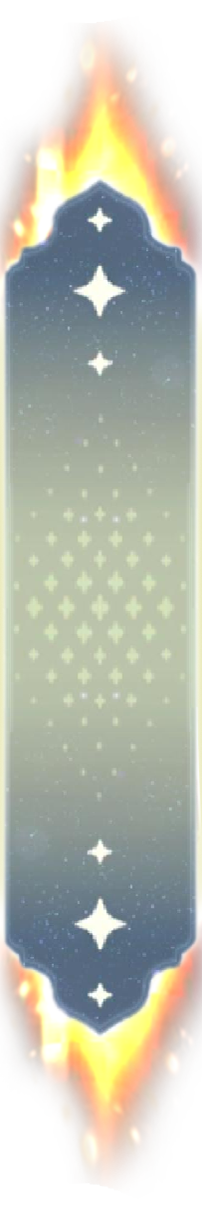
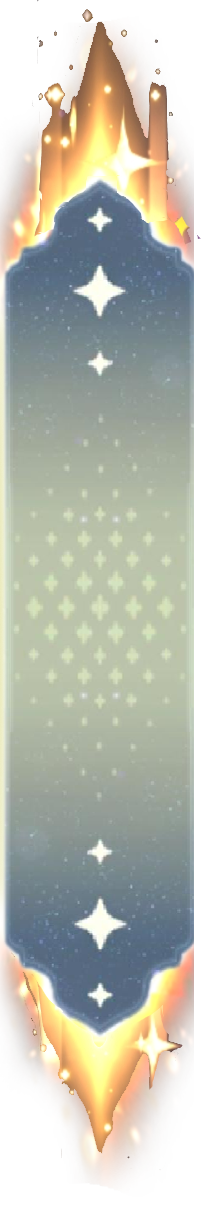
添加帮助页面文本；添加雾切图片；使五星背景图更突出;

diff --git a/src/plugins/gacha/gacha.js b/src/plugins/gacha/gacha.js
@@ -78,11 +78,10 @@ const getStar = async ( userID, choice ) => {
 
 const gachaOnce = async ( userID, choice, table ) => {
     const star  = await getStar(userID, choice);
-    let up    = await getIsUp(userID, star);
-    let result;
+    let up = await getIsUp(userID, star), result;
     const times = five;
-    let {path} = await get('gacha', 'user', { userID });
-    if (star === 5 && choice === 301 && path['fate'] === 2){
+    let { path } = await get('gacha', 'user', { userID });
+    if (star === 5 && choice === 302 && path['course']!== null && path['fate'] === 2){
         result = table['upFiveStar'][path['course']];
         path['fate'] = 0;
         up = 1;
@@ -96,14 +95,14 @@ const gachaOnce = async ( userID, choice, table ) => {
             if (up) {
               const index = getRandomInt(table['upFiveStar'].length) - 1;
               result = table['upFiveStar'][index];
-              if (choice === 301)
+              if (choice === 302 && path['course']!== null)
                   path['fate'] = (index === path['course'])? 0 : path['fate']+1;
             } else {
               const index = getRandomInt(table['nonUpFiveStar'].length) - 1;
               result = table['nonUpFiveStar'][index];
-              if (choice === 301) path['fate']++;
+              if (choice === 302 && path['course']!== null) path['fate']++;
             }
-            if (choice === 301) await update('gacha', 'user', { userID }, { path });
+            if (choice === 302 && path['course']!== null) await update('gacha', 'user', { userID }, { path });
         return { ...result, star: 5, times };
     } else if (star === 4) {
         if (up) {

diff --git a/src/plugins/gacha/index.js b/src/plugins/gacha/index.js
@@ -52,12 +52,20 @@ module.exports = async Message => {
         }
         const table = await get('gacha', 'data', { gacha_type: 302 });
         const {path} = await get('gacha', 'user', { userID });
-        
-        await bot.sendMessage(sendID, '当前定轨 '+table['upFiveStar'][path['course']]['item_name']+'\n命定值 '+path.fate, type);
+        if (path['course'] === null)
+          await bot.sendMessage(sendID, '当前未指定定轨武器', type);
+        else
+          await bot.sendMessage(sendID, '当前定轨 '+table['upFiveStar'][path['course']]['item_name']+'\n命定值 '+path['fate'], type);
     } else if (msg.includes('定轨')) {
         const { choice } = await get('gacha', 'user', { userID });
         if (choice!==302){
           await bot.sendMessage(sendID, '当前卡池非武器池', type);
+          return;
+        }
+        if (cmd === "无") {
+          let path = { course:null, fate: 0};
+          await update('gacha', 'user', { userID }, { path });
+          await bot.sendMessage(sendID, '已取消定轨', type);
           return;
         }
         let id = -1;

diff --git a/src/plugins/tools/help.js b/src/plugins/tools/help.js
@@ -10,6 +10,8 @@ const helpMessage =
 🔘 武器 <武器名> 👉 查询武器的游戏数据
 🔘 十连
 🔘 卡池 <常驻|角色|武器> 👉 切换【十连】的卡池
+🔘 定轨 <武器名>/空 👉 定轨指定武器（将清除命定值）/取消定轨
+🔘 查看定轨 👉 查看当前定轨的武器和命定值
 🔘 圣遗物 [副本ID] 👉 掉落一个圣遗物
 🔘 强化 👉 强化掉落的上一个圣遗物
 🔘 副本 👉 查询所有副本ID
